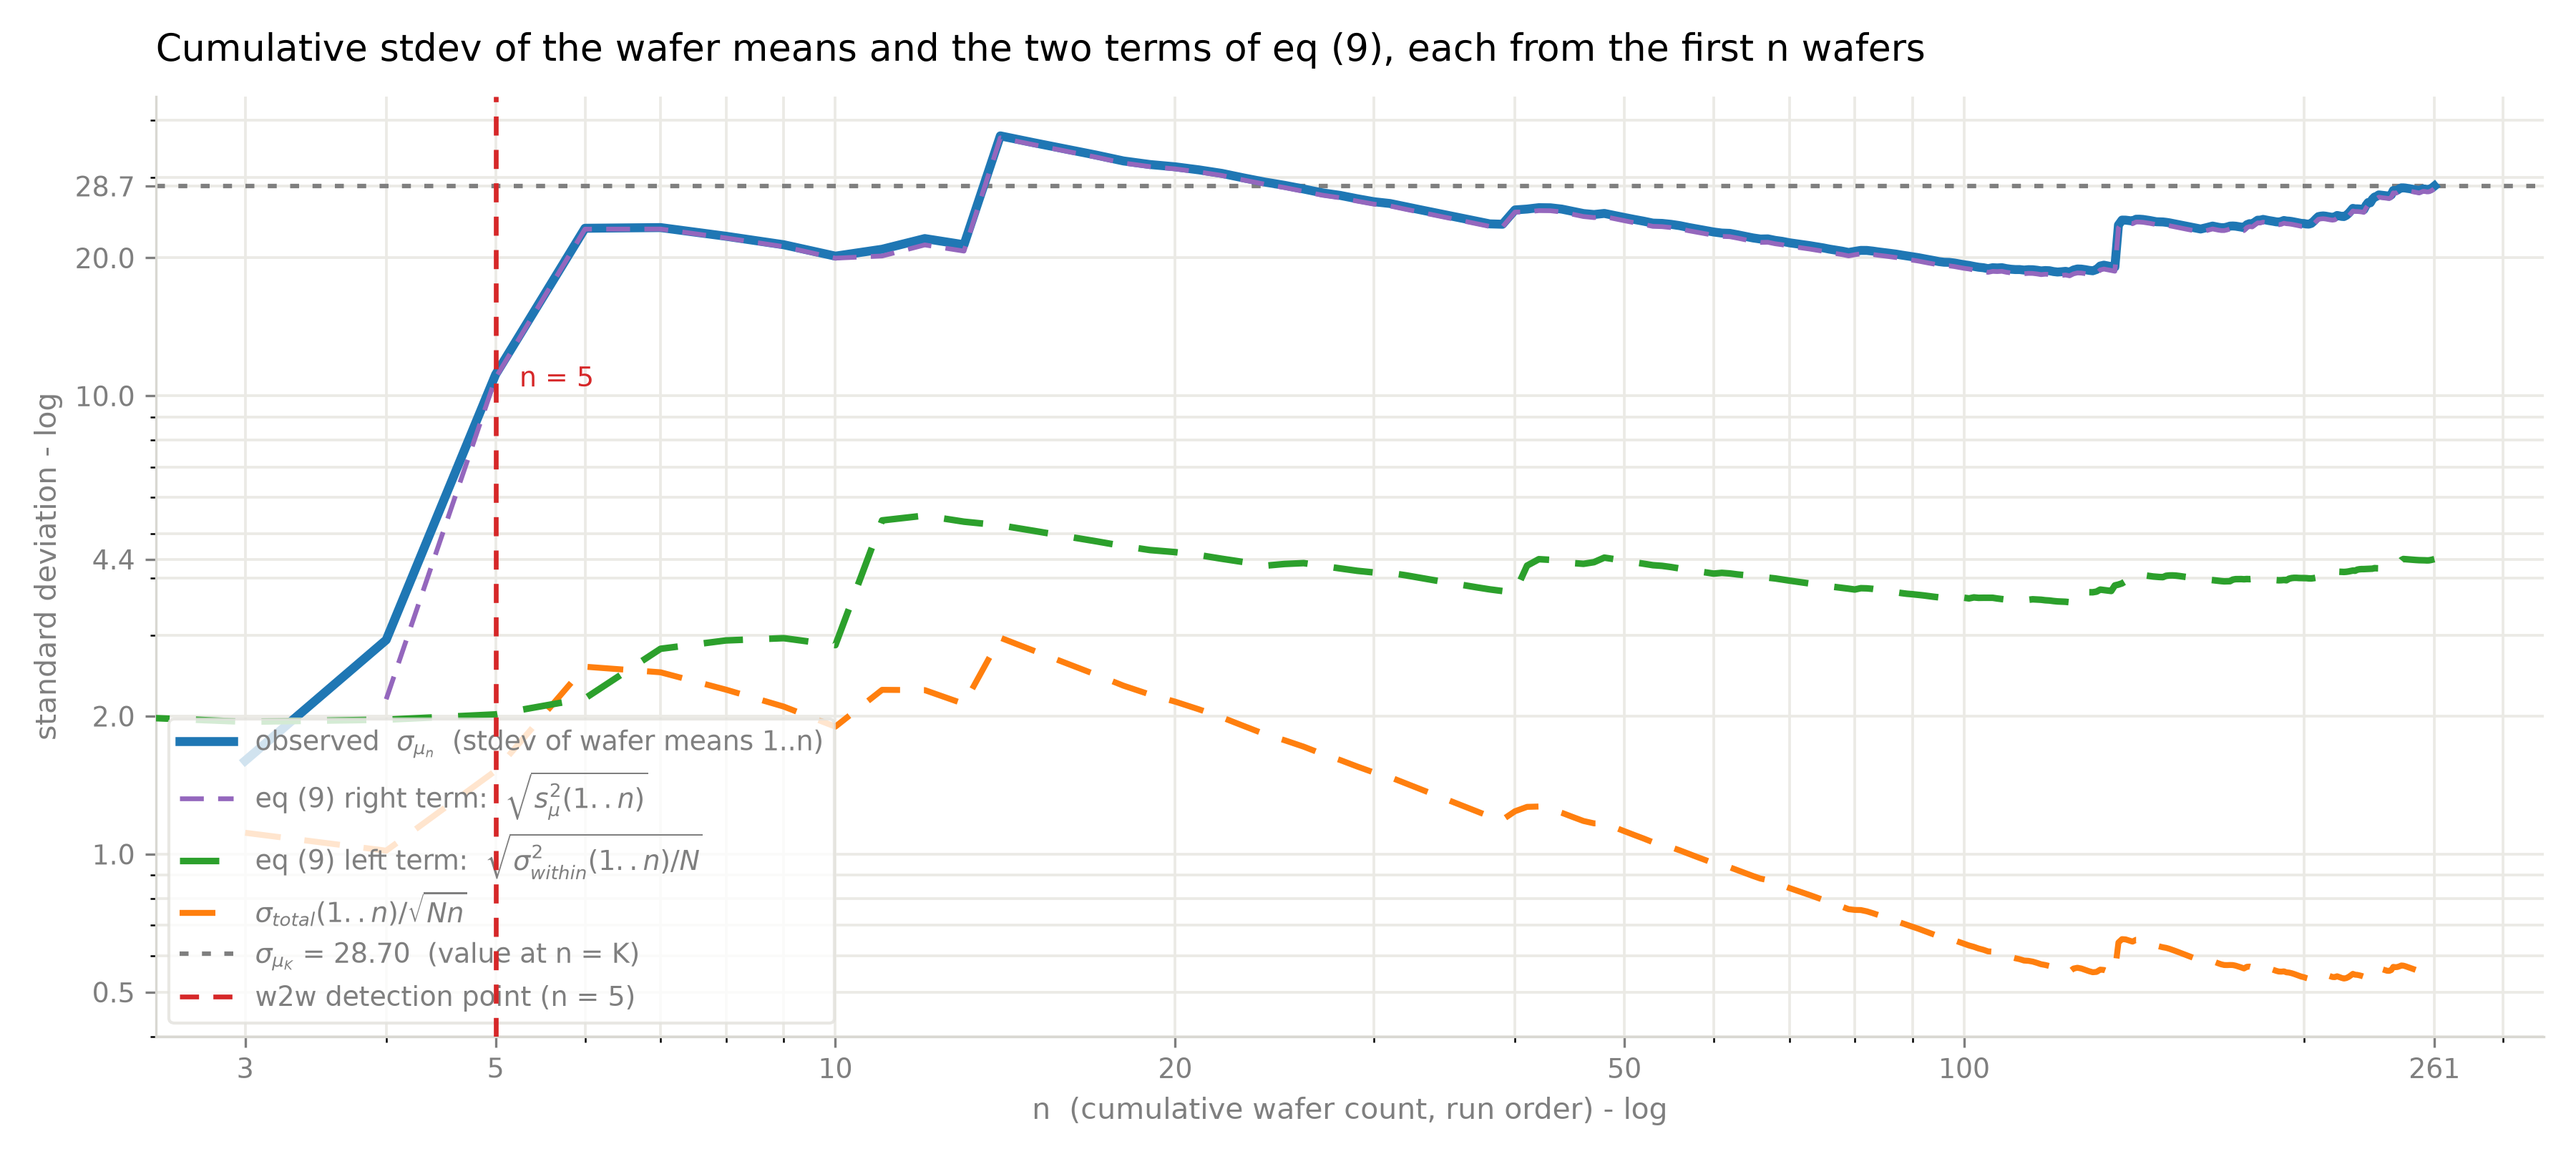
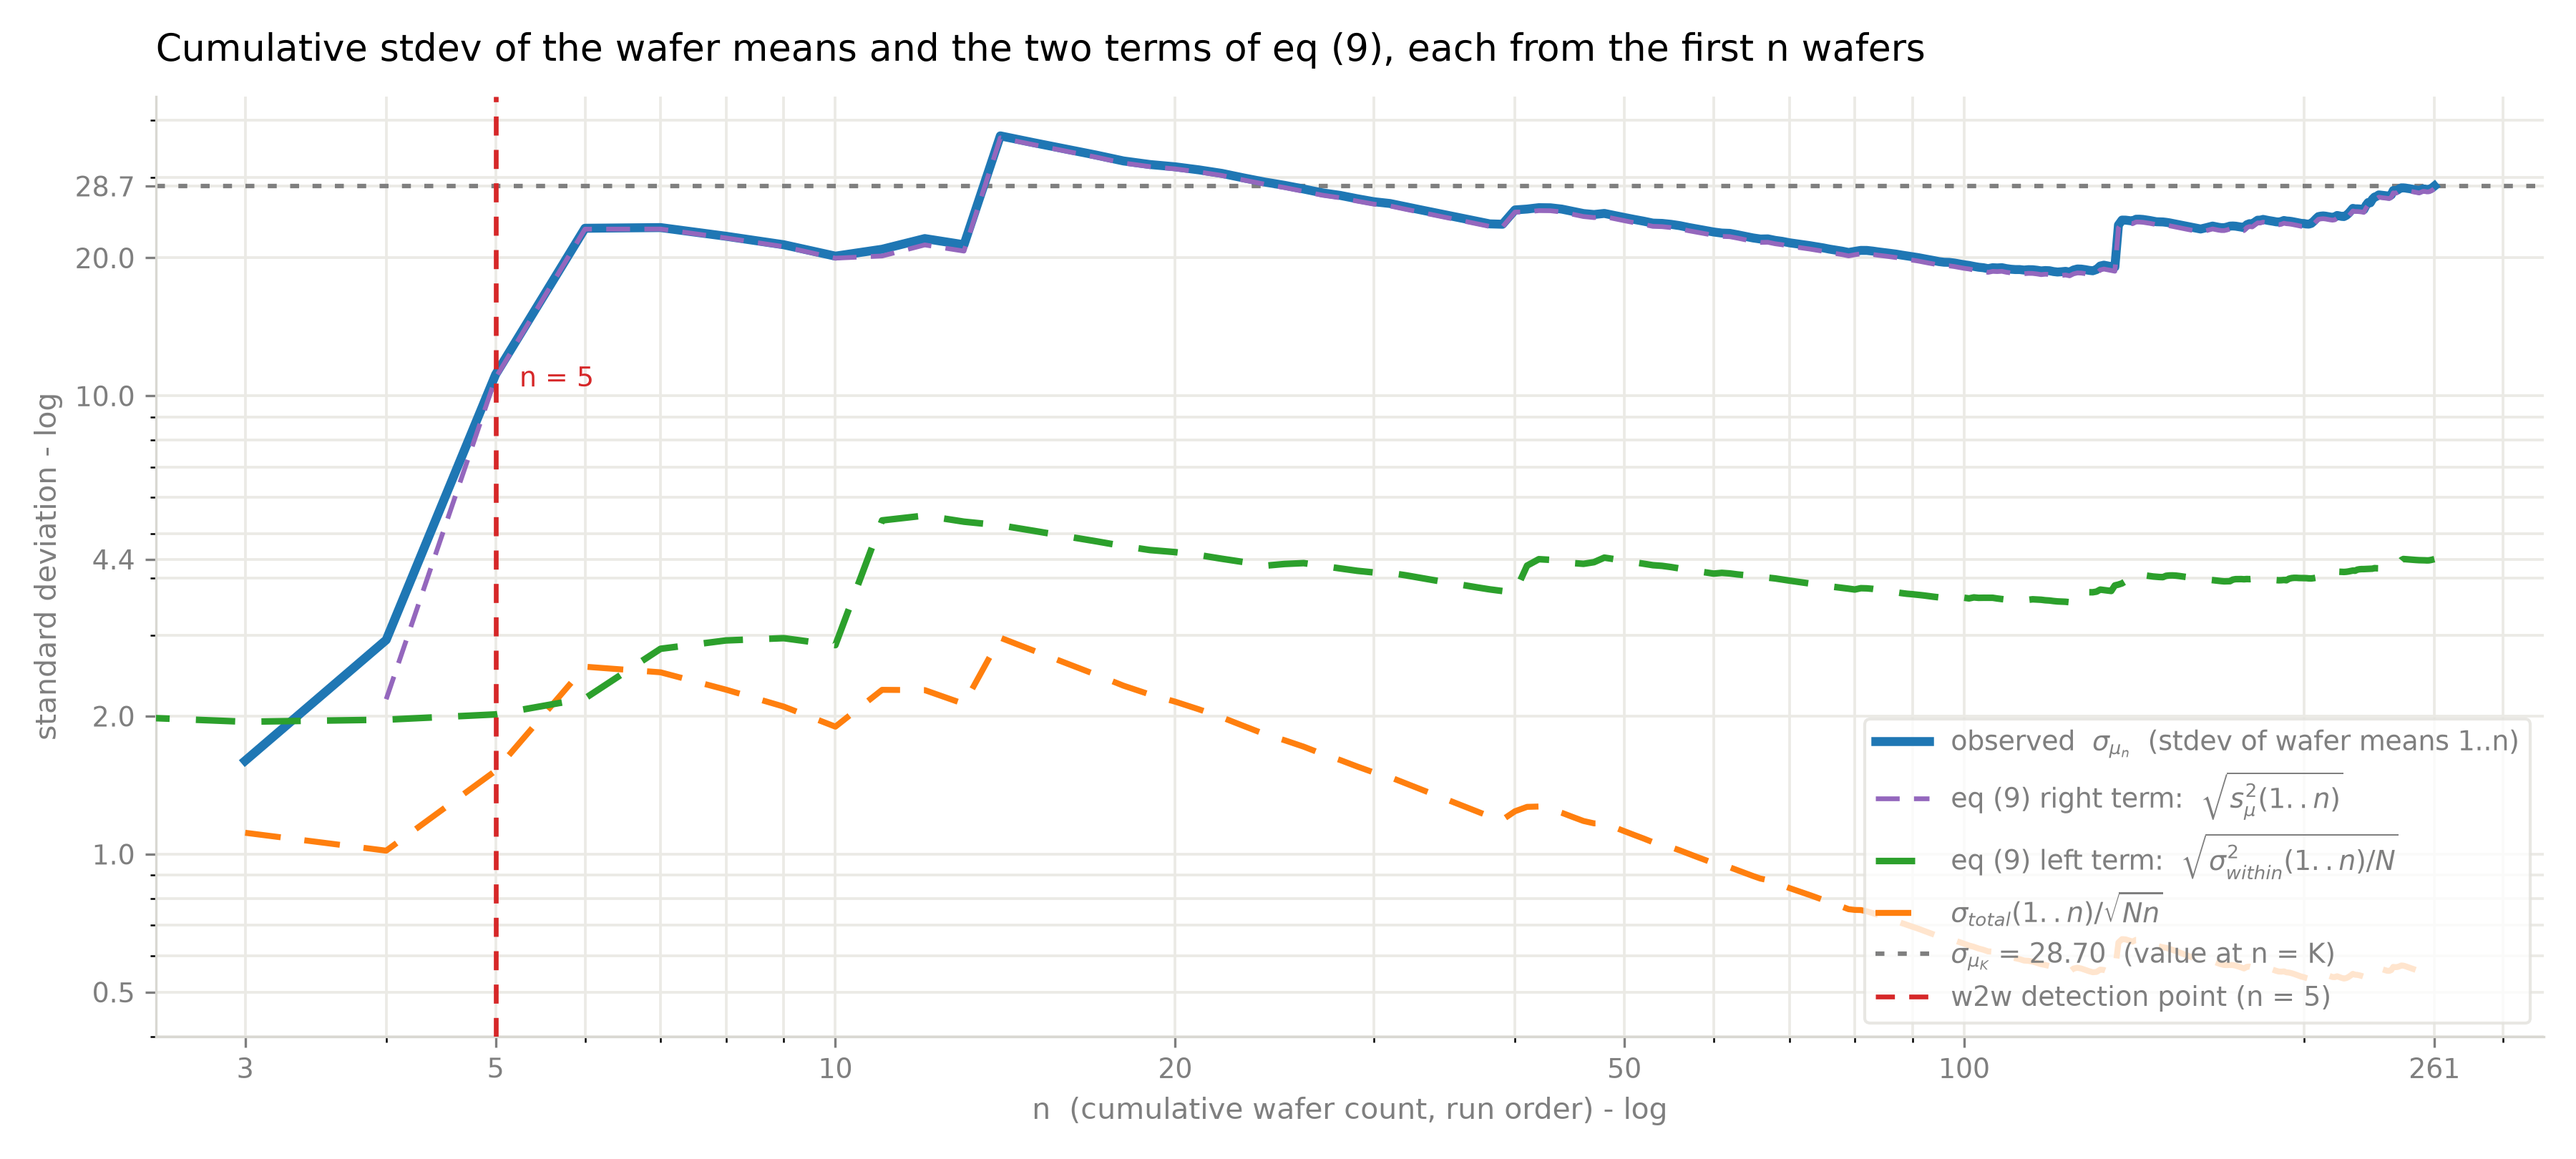
Drop the section on wafers with an inflated within-wafer spread
Remove the section with its table and figure, move the cumulative figure's
legend clear of the curves, and update the README entry.

Claude-Session: https://claude.ai/code/session_01EmRuphkFeGWkDYDUkauFqt

diff --git a/EDA/Variability/WiW-W2W/wiw_w2w_anova.py b/EDA/Variability/WiW-W2W/wiw_w2w_anova.py
@@ -1,15 +1,16 @@
 """Variance decomposition of a wafer measurement table into within-wafer and wafer-to-wafer parts.
 
 The script reads a table whose rows are wafers and whose columns are measurement sites, reports the
-one-way ANOVA and the variance components, and draws the three figures the document carries.
+one-way ANOVA and the variance components, and draws the two figures the document carries.
 
 Changelog:
 - 0.0.0: initial release.
 - 0.1.0: mark the w2w detection point on the cumulative figure.
+- 0.2.0: drop the flagged-wafer figure and move the cumulative legend to the lower right.
 """
 
 __author__ = 'yRocket'
-__version__ = "0.1.0.2026.9.3"
+__version__ = "0.2.0.2026.9.3"
 
 import argparse
 import pathlib
@@ -31,7 +32,6 @@ __all__ = [
     'w2w_detection_point',
     'draw_site_value_violin',
     'draw_cumulative_stdev',
-    'draw_flagged_wafer_means',
 ]
 
 WAFER_ID_COLUMN: str = 'wafer_id'
@@ -242,42 +242,7 @@ def draw_cumulative_stdev(frame: pd.DataFrame, figure_path: pathlib.Path) -> Non
                 xlabel="n  (cumulative wafer count, run order) - log",
                 ylabel="standard deviation - log", font_size=font_size)
     axes.grid(which='both', axis='both', color='#ebeae5', lw=0.9)
-    legend = axes.legend(loc='lower left', frameon=True, fontsize=font_size, edgecolor='#e3e2dd')
-    for text in legend.get_texts():
-        text.set_color(COLOR_INK)
-    figure.tight_layout()
-    figure.savefig(figure_path, dpi=SAVE_DPI)
-    plt.close(figure)
-
-
-def draw_flagged_wafer_means(frame: pd.DataFrame, report: pd.DataFrame, figure_path: pathlib.Path) -> None:
-    """Draw the wafer means over run order, marking the wafers whose within-wafer spread drives the mean."""
-    values = frame.to_numpy(dtype=float)
-    wafer_count = values.shape[0]
-    order = np.arange(1, wafer_count + 1)
-    wafer_mean = report['mean'].to_numpy()
-    sd_within = report['sd_within'].to_numpy()
-    flagged = report['flagged'].to_numpy()
-    moving = pd.Series(wafer_mean).rolling(MOVING_WINDOW, center=True, min_periods=MOVING_WINDOW // 3).mean()
-
-    font_size = BASE_FONT_SIZE * FIGSIZE[0] / REFERENCE_WIDTH
-    figure, axes = plt.subplots(figsize=FIGSIZE)
-    axes.errorbar(order[~flagged], wafer_mean[~flagged], yerr=sd_within[~flagged], fmt='none',
-                  ecolor=COLOR_OBSERVED, elinewidth=1.4, alpha=0.35, zorder=1)
-    axes.errorbar(order[flagged], wafer_mean[flagged], yerr=sd_within[flagged], fmt='none',
-                  ecolor=COLOR_FLAGGED, elinewidth=1.8, alpha=0.35, zorder=2)
-    axes.plot(order, wafer_mean, color=COLOR_OBSERVED, lw=1.1, alpha=0.35, zorder=2)
-    axes.scatter(order[~flagged], wafer_mean[~flagged], s=20, color=COLOR_OBSERVED, edgecolor='white',
-                 linewidth=0.8, zorder=3, label=r"wafer mean $\pm 1\sigma$ (within)")
-    axes.scatter(order[flagged], wafer_mean[flagged], s=60, marker='D', color=COLOR_FLAGGED, edgecolor='white',
-                 linewidth=1.0, zorder=6, label=f"within-wafer variance inflated: {int(flagged.sum())} wafers")
-    axes.plot(order, moving, color=COLOR_TREND, lw=2.2, zorder=4, label=f"{MOVING_WINDOW}-wafer moving average")
-    for position in np.argsort(-sd_within)[:4]:
-        axes.annotate(frame.index[position], (order[position], wafer_mean[position]), textcoords="offset points",
-                      xytext=(6, 10), fontsize=font_size * 0.85, color=COLOR_FLAGGED)
-    _style_axes(axes=axes, title="Wafers whose within-wafer spread drives the mean",
-                xlabel="wafer index (run order)", ylabel="wafer mean", font_size=font_size)
-    legend = axes.legend(loc='lower right', frameon=True, fontsize=font_size * 0.95, edgecolor='#e3e2dd')
+    legend = axes.legend(loc='lower right', frameon=True, fontsize=font_size, edgecolor='#e3e2dd')
     for text in legend.get_texts():
         text.set_color(COLOR_INK)
     figure.tight_layout()
@@ -318,6 +283,4 @@ if __name__ == '__main__':
                            figure_path=args.output_folder / 'site_value_violin.png',
                            sample_path=args.output_folder / 'site_value_violin_samples.csv')
     draw_cumulative_stdev(frame=measurements, figure_path=args.output_folder / 'cum_stdev.png')
-    draw_flagged_wafer_means(frame=measurements, report=wafer_report,
-                             figure_path=args.output_folder / 'wafer_mean_flagged.png')
     print(f"figures written to {args.output_folder}")

diff --git a/README.md b/README.md
@@ -1,5 +1,5 @@
 # AIML
-Rev. 43 | Created: 2026-08-07 | Updated: 2026-09-03 13:58 CDT
+Rev. 44 | Created: 2026-08-07 | Updated: 2026-09-03 14:46 CDT
 
 > A working notebook of applied machine learning and statistics, kept as documents that fix the reasoning and as scripts that show the mechanics.
 > The material leans toward measurement-heavy engineering data, semiconductor process and metrology data in particular.
@@ -50,7 +50,7 @@ Table 3. EDA documents
 | [EDA/Outlier/outlier_detection.md](EDA/Outlier/outlier_detection.md) | It surveys outlier detection across the statistical, machine learning and deep learning families, from the z-score and Tukey fences through Isolation Forest, ECOD and the local outlier factor to autoencoders and patch feature memories, records what a semiconductor line runs as part average testing and fault detection, and picks among them by what each one assumes. |
 | [EDA/Outlier/GESD/generalized-esd.md](EDA/Outlier/GESD/generalized-esd.md) | It covers the generalized ESD procedure of ISO 16269-4, which finds an unknown number of outliers in one pass, and explains the decision rule that keeps several outliers from hiding one another. Two worked examples show a masked sample and a flag that does not survive inspection. |
 | [EDA/Outlier/Hampel/hampel-identifier.md](EDA/Outlier/Hampel/hampel-identifier.md) | It covers the modified z-score built from the median and the median absolute deviation, which needs no normality and no iteration because the pair it is built on cannot be moved by a minority of outliers. |
-| [EDA/Variability/WiW-W2W/wiw-w2w-anova.md](EDA/Variability/WiW-W2W/wiw-w2w-anova.md) | It states the sum-of-squares identity behind ANOVA and the exact weighted relation between a total variance and its within-group and between-group parts, together with the approximation in common use, then applies it to a 261-wafer, 13-site measurement set — splitting the variance into within-wafer and wafer-to-wafer components with their ICC, deriving the cumulative standard deviation of the wafer means from a site-error model and giving the closed form it takes over the whole set, and selecting the wafers whose within-wafer spread moves their own mean. |
+| [EDA/Variability/WiW-W2W/wiw-w2w-anova.md](EDA/Variability/WiW-W2W/wiw-w2w-anova.md) | It states the sum-of-squares identity behind ANOVA and the exact weighted relation between a total variance and its within-group and between-group parts, together with the approximation in common use, then applies it to a 261-wafer, 13-site measurement set — splitting the variance into within-wafer and wafer-to-wafer components with their ICC, and deriving the cumulative standard deviation of the wafer means from a site-error model, with the closed form it takes once the wafer-level spread matches the between-wafer component and the point past which that spread rises clear of the site error. |
 
 ### 3.2 Feature Engineering
 

diff --git a/EDA/Variability/WiW-W2W/wiw-w2w-anova.md b/EDA/Variability/WiW-W2W/wiw-w2w-anova.md
@@ -1,5 +1,5 @@
 # Within-Wafer and Wafer-to-Wafer Variance Decomposition
-Rev. 32 | Created: 2026-09-01 | Updated: 2026-09-03 14:42 CDT
+Rev. 33 | Created: 2026-09-01 | Updated: 2026-09-03 14:44 CDT
 
 > ANOVA (analysis of variance) 는 관측치의 전체 산포를 몇 개의 원인으로 나누어, 어느 원인이 얼마나 기여하는지 수치로 보이는 방법이다.
 
@@ -142,27 +142,7 @@ Fig 2 에서 그 크기가 뒤집히는 곳을 w2w detection point 라 부르며
 
 공정 관리로 옮기면 w2w detection point 는 판단에 필요한 최소 표본이다. 그 앞에서 잰 산포는 wafer-to-wafer 를 볼 수 없으므로 그 값으로 관리 한계선을 세우면 산포를 크게 낮춰 잡게 되고, 이 점을 넘어서야 "이 산포는 site 균일도가 아니라 wafer 단위 조건에서 온다" 는 판정이 성립한다. 거꾸로 그 앞 구간에서 산포가 작게 나왔다고 공정이 안정된 것으로 읽으면 안 된다 — 아직 볼 수 있는 것이 측정 잡음뿐이기 때문이다.
 
-## 5. Wafers with Inflated Within-Wafer Spread
-
-각 wafer 의 `s_i`² 를 pooled MS within = 251.98 과 χ² (df = 12) 로 비교해, Bonferroni 보정으로 (기준 p 값 1.9e-04) 유의한 wafer 18 장을 골랐다. 이들의 표준오차 `s_i`/√13 은 7.9 에서 15.3 으로 전체 중앙값 3.18 의 2.5 배에서 5 배이다.
-
-Table 3. Top five wafers by within-wafer standard error
-
-| Wafer | Mean | Sd within | SE | Worst site | Shift when the worst site is dropped |
-|---|---:|---:|---:|---|---:|
-| wf0011 | 638.9 | 55.04 | 15.27 | S1 | 6.52 |
-| wf0041 | 636.4 | 49.52 | 13.73 | S1 | 6.35 |
-| wf0125 | 651.8 | 42.39 | 11.76 | S1 | 5.48 |
-| wf0207 | 654.7 | 41.36 | 11.47 | S1 | 5.35 |
-| wf0244 | 674.5 | 41.12 | 11.41 | S1 | 5.01 |
-
-Table 3 의 다섯 장은 모두 S1 이 원인이고, 18 장 전체로는 S1 또는 S2 한 점이 원인이다. 그 site 를 빼면 wafer 평균이 4 에서 6.5 만큼 움직인다. 이 이동폭은 `sigma_wafer` = 28.36 에 비하면 작으므로, 이 wafer 들을 빼도 wafer-to-wafer 가 지배하는 구조는 바뀌지 않는다.
-
-<img src="wiw-w2w-anova_fig/wafer_mean_flagged.png" width="900" style="max-width: 100%;" alt="Fig 3">
-
-Fig 3. Wafer means with the 18 wafers whose within-wafer variance is inflated
-
-## 6. Conclusion
+## 5. Conclusion
 
 - Site 한 점 기준 분산 배분: wafer-to-wafer 76.1%, within-wafer 23.9%, ICC 0.761.
 - Wafer 평균 분산 28.70² = 823.5 중 28.36² = 804.1 (97.6%) 이 wafer 고유 수준, 19.38 (2.4%) 이 site 평균화 후 남는 within 기여.
